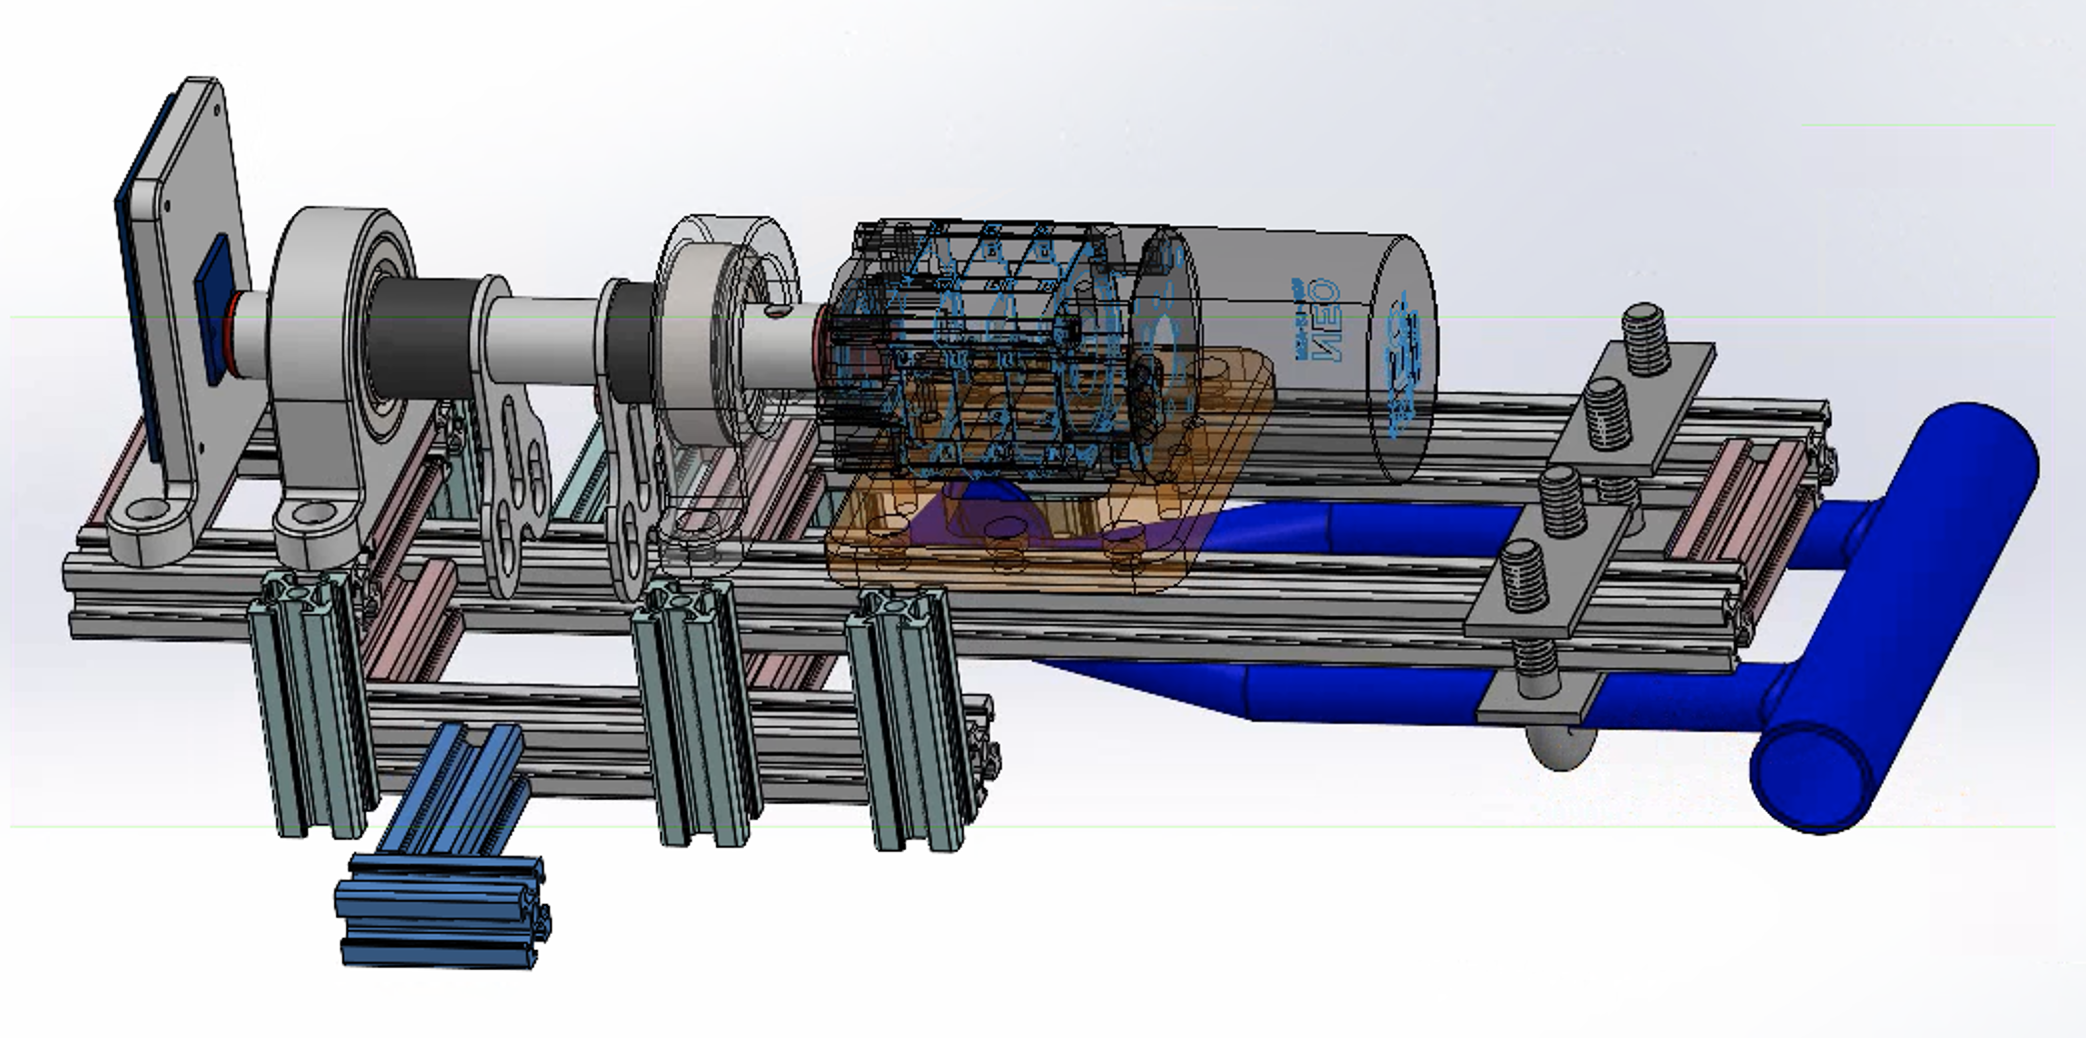
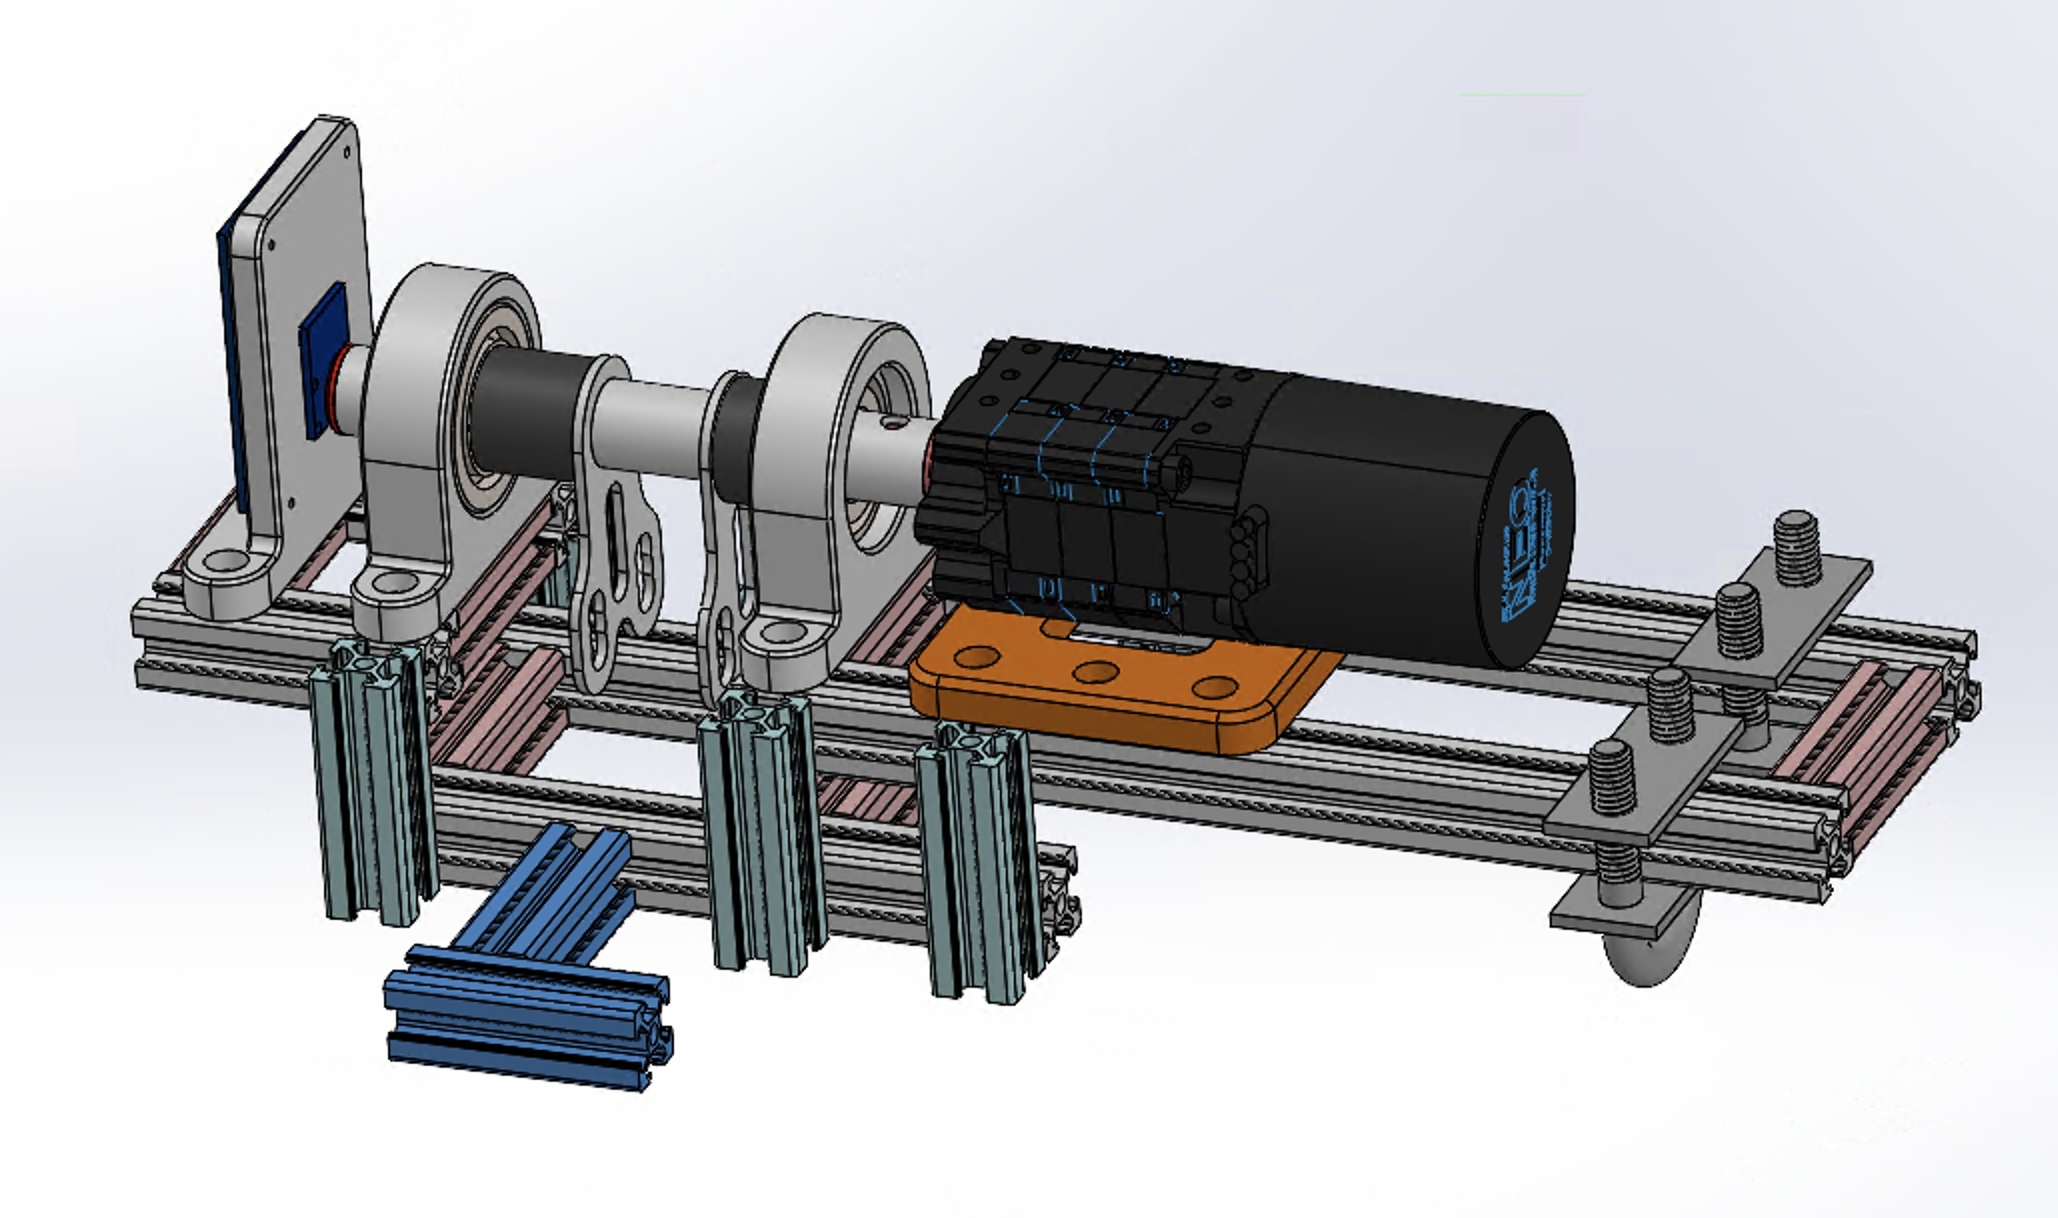
LSBW tslot lengths

diff --git a/docs/source/Build-the-Kart/Mechanical/LSBW_mechanical.rst b/docs/source/Build-the-Kart/Mechanical/LSBW_mechanical.rst
@@ -31,43 +31,35 @@ TODO Update this after making some necessary changes!
 
 BOTTOM HALF ASSEMBLY
 
-Step B1: First, build the base level of the mount. You'll have to cut four t-slots, two of length X and two of length Y, and arrange them horizontally as shown in the image below. This subassembly allows for the active components above to connect to the provided blue TopKart chassis on either side; although this connection itself will take place in a later step.
-
-TODO Copy this from CAD, dimensions and screenshots
+Step B1: First, build the base level of the mount. You'll have to cut four t-slots, two of length 165mm and two of length 56mm, and arrange them horizontally as shown in the image below. This subassembly allows for the active components above to connect to the provided blue TopKart chassis on either side; although this connection itself will take place in a later step.
 
 .. image:: ../imgs/Mechanical/LSBW_CAD_B1
     :width: 100%
     :align: center
     :alt: Lower Steer By Wire Assembly Step B1
 
-Step B2: Next, cut six t-slots of length X, and attach them vertically around the outer perimeter of the base. Specific position dimensions can be found in the assembly linked above, although they're easily adjustable later and imprecision is fine.
-
-TODO Copy this from CAD, dimensions and screenshots
+Step B2: Next, cut six t-slots of length 60mm, and attach them vertically around the outer perimeter of the base. Specific position dimensions can be found in the assembly linked above, although they're easily adjustable later and imprecision is fine.
 
 .. image:: ../imgs/Mechanical/LSBW_CAD_B2
     :width: 100%
     :align: center
     :alt: Lower Steer By Wire Assembly Step B2
 
-Step B3: Now cut four more t-slots, two of length X and two of length Y, and assemble them as shown below. Note that the X are on the GoKart's left and right (i.e. touching the vertical t-slots from Step 2), and the Y are in between them in the front and back. Note also that the backmost t-slot is not a critical component, so you can bypass this if assembly proves too difficult. Once you have this subassembly complete, attach it just inside of the vertical t-slots.
-
-TODO Copy this from CAD, dimensions and screenshots
+Step B3: Now cut four more t-slots, two of length 70mm and two of length 56mm, and assemble them as shown below. Note that the 70mm t-slots are on the GoKart's left and right (i.e. touching the vertical t-slots from Step 2), and the 55mm t-slots are in between them in the front and back. Note also that the backmost t-slot is not a critical component, so you can bypass this if assembly proves too difficult. Once you have this subassembly complete, attach it just inside of the vertical t-slots.
 
 .. image:: ../imgs/Mechanical/LSBW_CAD_B3
     :width: 100%
     :align: center
     :alt: Lower Steer By Wire Assembly Step B3
 
-Step B4: Cut four more 4 t-slots, two of length X and two of length Y, then arrange them in a rectangle as shown below. Then attach them to the four vertical t-slots near the front. For now, ignore the U-bolts shown in the CAD, unless this long rectangle starts to act as a bending cantilever, in which case you should skip to steps 5 and 6 (bottom half) and step 2 (full assembly) to attach the complete LSBW bottom half to the blue TopKart chassis frame.
-
-TODO Copy this from CAD, dimensions and screenshots
+Step B4: Cut four more 4 t-slots, two of length 260mm and two of length 56mm, then arrange them in a rectangle as shown below. Then attach them to the four vertical t-slots near the front. For now, ignore the U-bolts shown in the CAD, unless this long rectangle starts to act as a bending cantilever, in which case you should skip to steps 5 and 6 (bottom half) and step 2 (full assembly) to attach the complete LSBW bottom half to the blue TopKart chassis frame.
 
 .. image:: ../imgs/Mechanical/LSBW_CAD_B4
     :width: 100%
     :align: center
     :alt: Lower Steer By Wire Assembly Step B4
 
-Step B5: Cut four more t-slots, two of length X and two of length Y, and assemble them as two "L" pairs, as shown below. Then using four 3D printed (or better yet, custom machined?) t-slot brackets, (two copies of A, STL coming soon, and two copies of B, STL coming soon) attach both L pairs to the t-slot base from Step 1.
+Step B5: Cut four more t-slots, each of length 60mm, and assemble them as two "L" pairs, as shown below. Then using four 3D printed (or better yet, custom machined?) t-slot brackets, (two copies of A, STL coming soon, and two copies of B, STL coming soon) attach both L pairs to the t-slot base from Step 1.
 
 TODO Copy this from CAD, dimensions and screenshots
 TODO Attach this CAD, and merge it into the assembly
